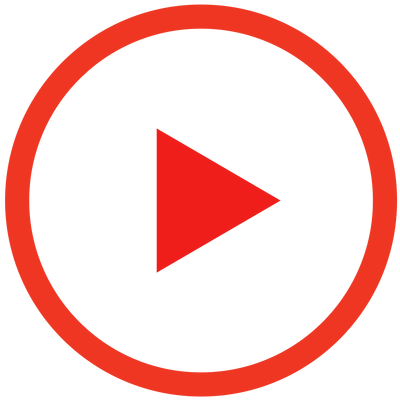
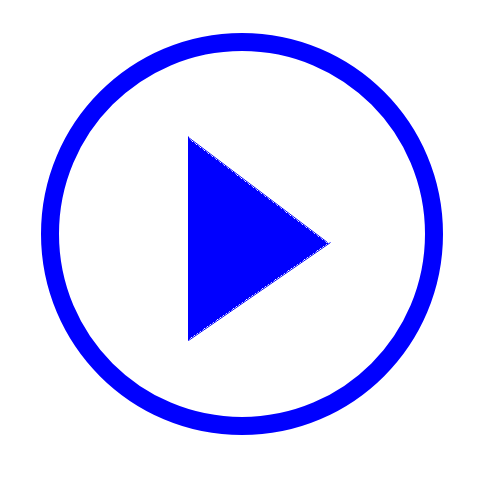
a

diff --git a/src/GUI/Reproductor.java b/src/GUI/Reproductor.java
@@ -10,13 +10,13 @@ public class Reproductor extends JPanel{
 		
 		super();
 		
-		JButton botonPlay = new JButton("PLAY");
-		/*botonPlay.setIcon(new ImageIcon(new ImageIcon("aux/play-button.png").getImage().getScaledInstance(50, 50, Image.SCALE_DEFAULT)));
+		JButton botonPlay = new JButton();
+		botonPlay.setIcon(new ImageIcon(new ImageIcon("aux/play-button.png").getImage().getScaledInstance(50, 50, Image.SCALE_DEFAULT)));
 		botonPlay.setOpaque(false);
 		botonPlay.setContentAreaFilled(false);
 		botonPlay.setBorderPainted(false);
 		botonPlay.setPressedIcon(new ImageIcon(new ImageIcon("aux/play-button2.png").getImage().getScaledInstance(50, 50, Image.SCALE_DEFAULT)));
-		botonPlay.setLocation(0, 0);*/
+		botonPlay.setLocation(0, 0);
 		
 		this.add(botonPlay);
 		

diff --git a/src/GUI/CompasON.java b/src/GUI/CompasON.java
@@ -8,6 +8,7 @@ public class CompasON extends JFrame {
 
 	public CompasON() {
 		super("CompasON");
+		this.setIconImage(new ImageIcon("aux/icono-compason.png").getImage());
 		Container contenedor = this.getContentPane();
 		BorderLayout layout = new BorderLayout();
 		contenedor.setLayout(layout);

diff --git a/src/GUI/Inicio.java b/src/GUI/Inicio.java
@@ -4,9 +4,9 @@ import java.awt.Image;
 
 import javax.swing.*;
 
-public class InicioNoRegistrado extends JPanel {
+public class Inicio extends JPanel {
 
-	public InicioNoRegistrado() {
+	public Inicio() {
 		super();
 		SpringLayout layout = new SpringLayout();
 		this.setLayout(layout);

diff --git a/src/GUI/Pestanias.java b/src/GUI/Pestanias.java
@@ -6,7 +6,7 @@ public class Pestanias extends JTabbedPane {
 	
 	public Pestanias() {
 		super();
-		JPanel inicioNoRegistrado = new InicioNoRegistrado();
+		JPanel inicioNoRegistrado = new Inicio();
 		JPanel busqueda = new Busqueda();
 		
 		this.addTab("Inicio", inicioNoRegistrado);
